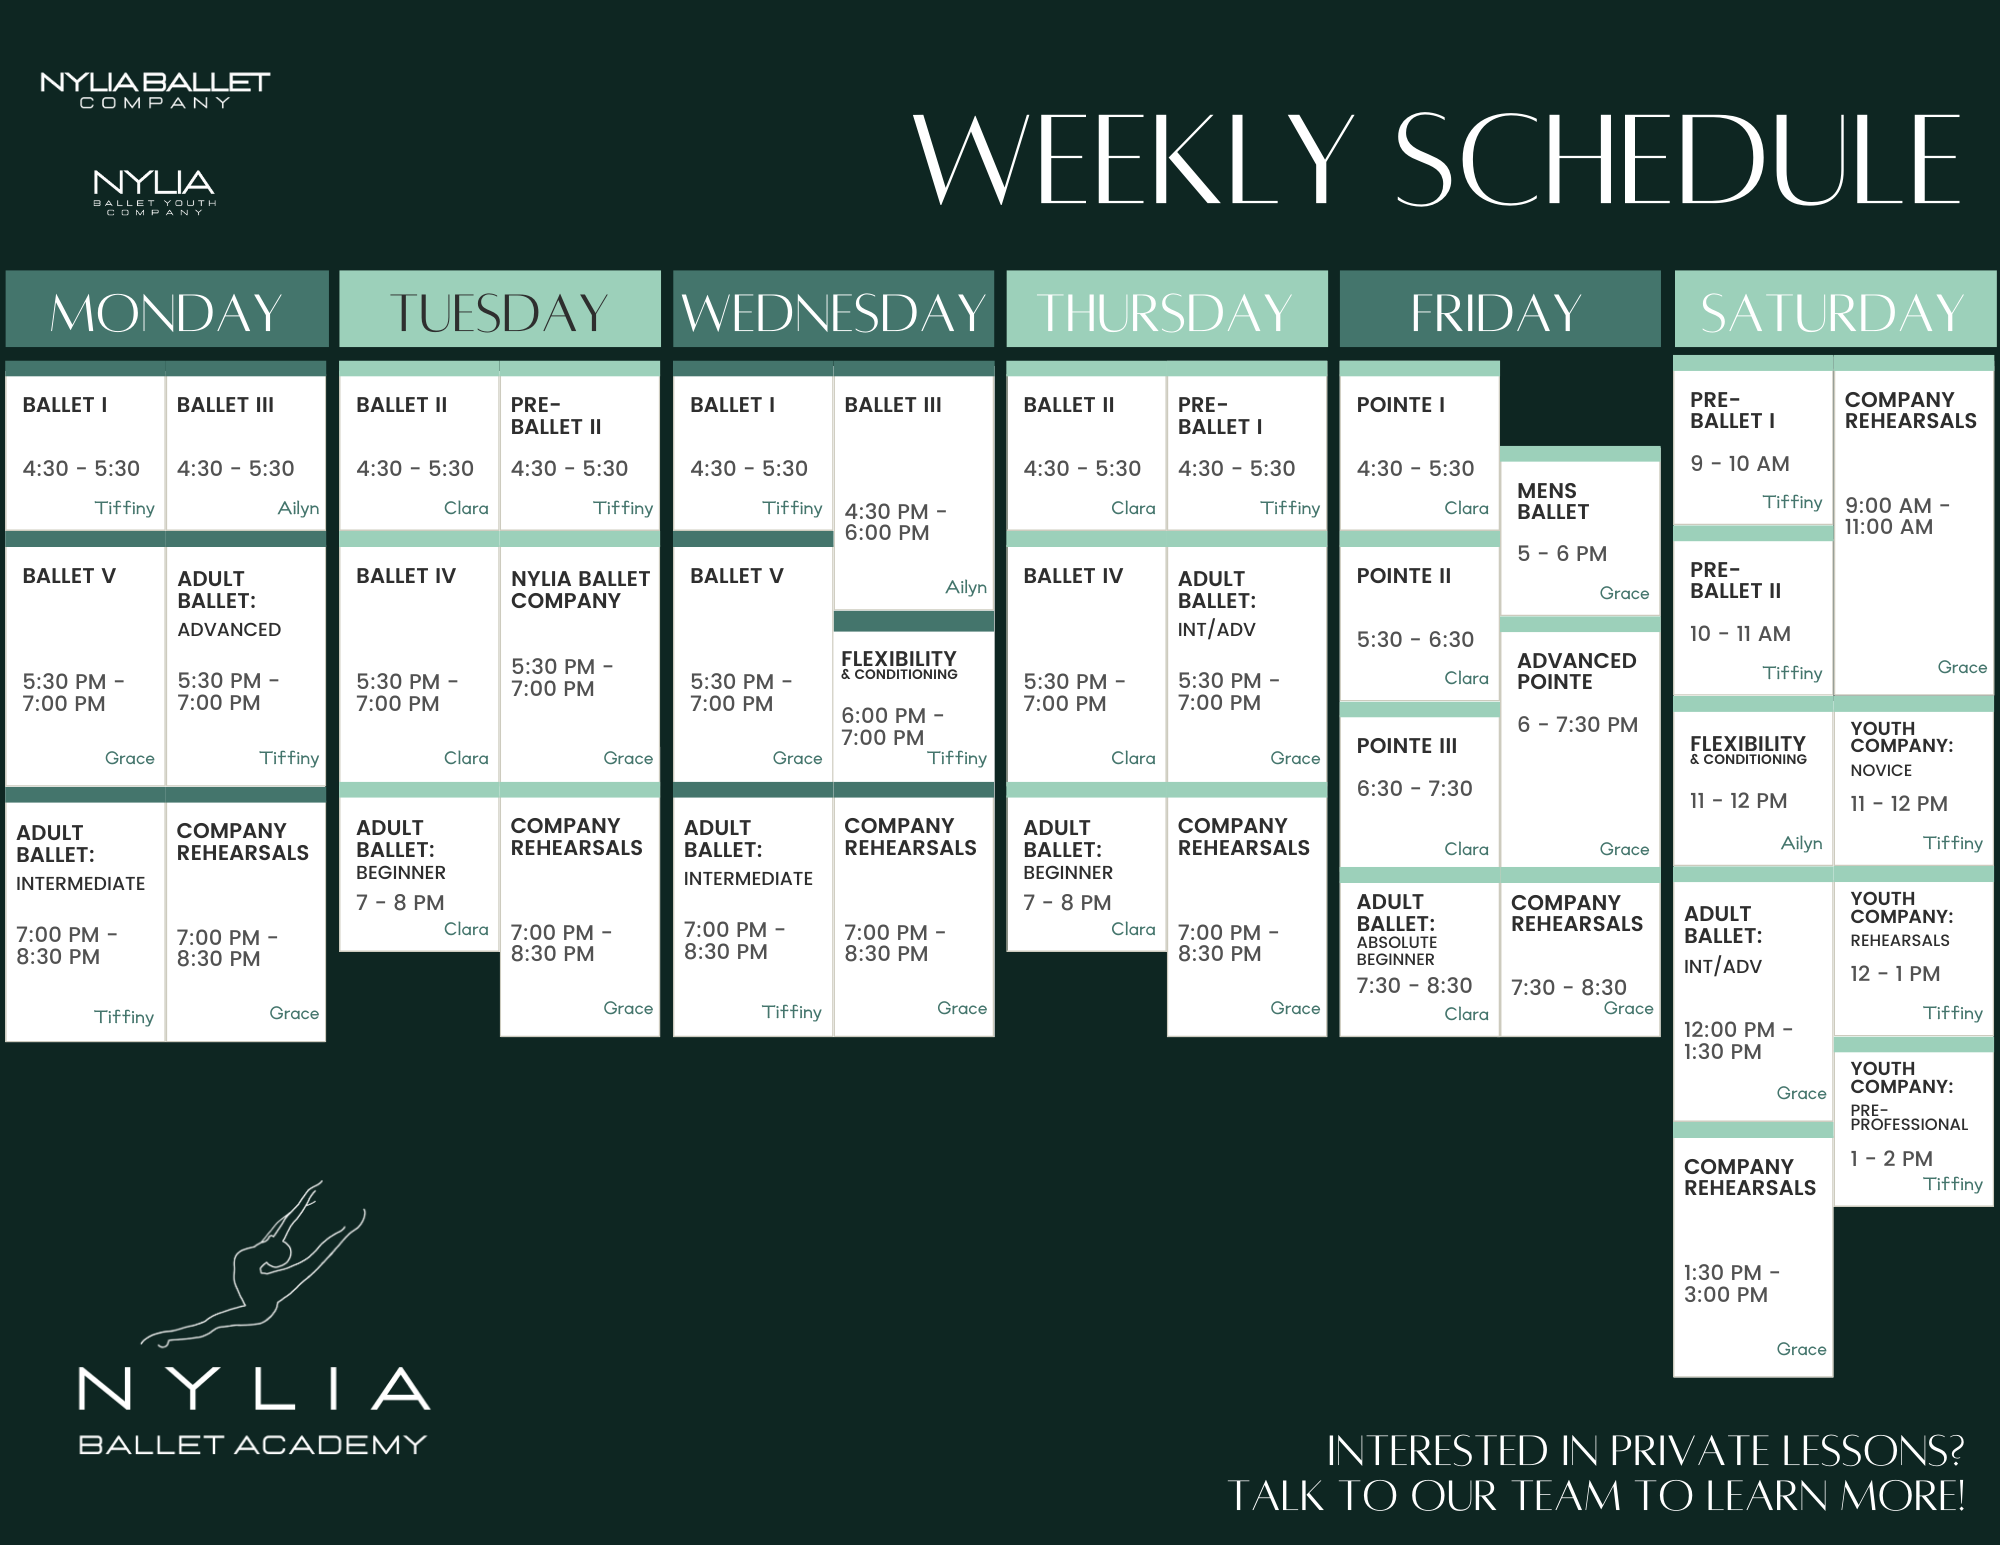
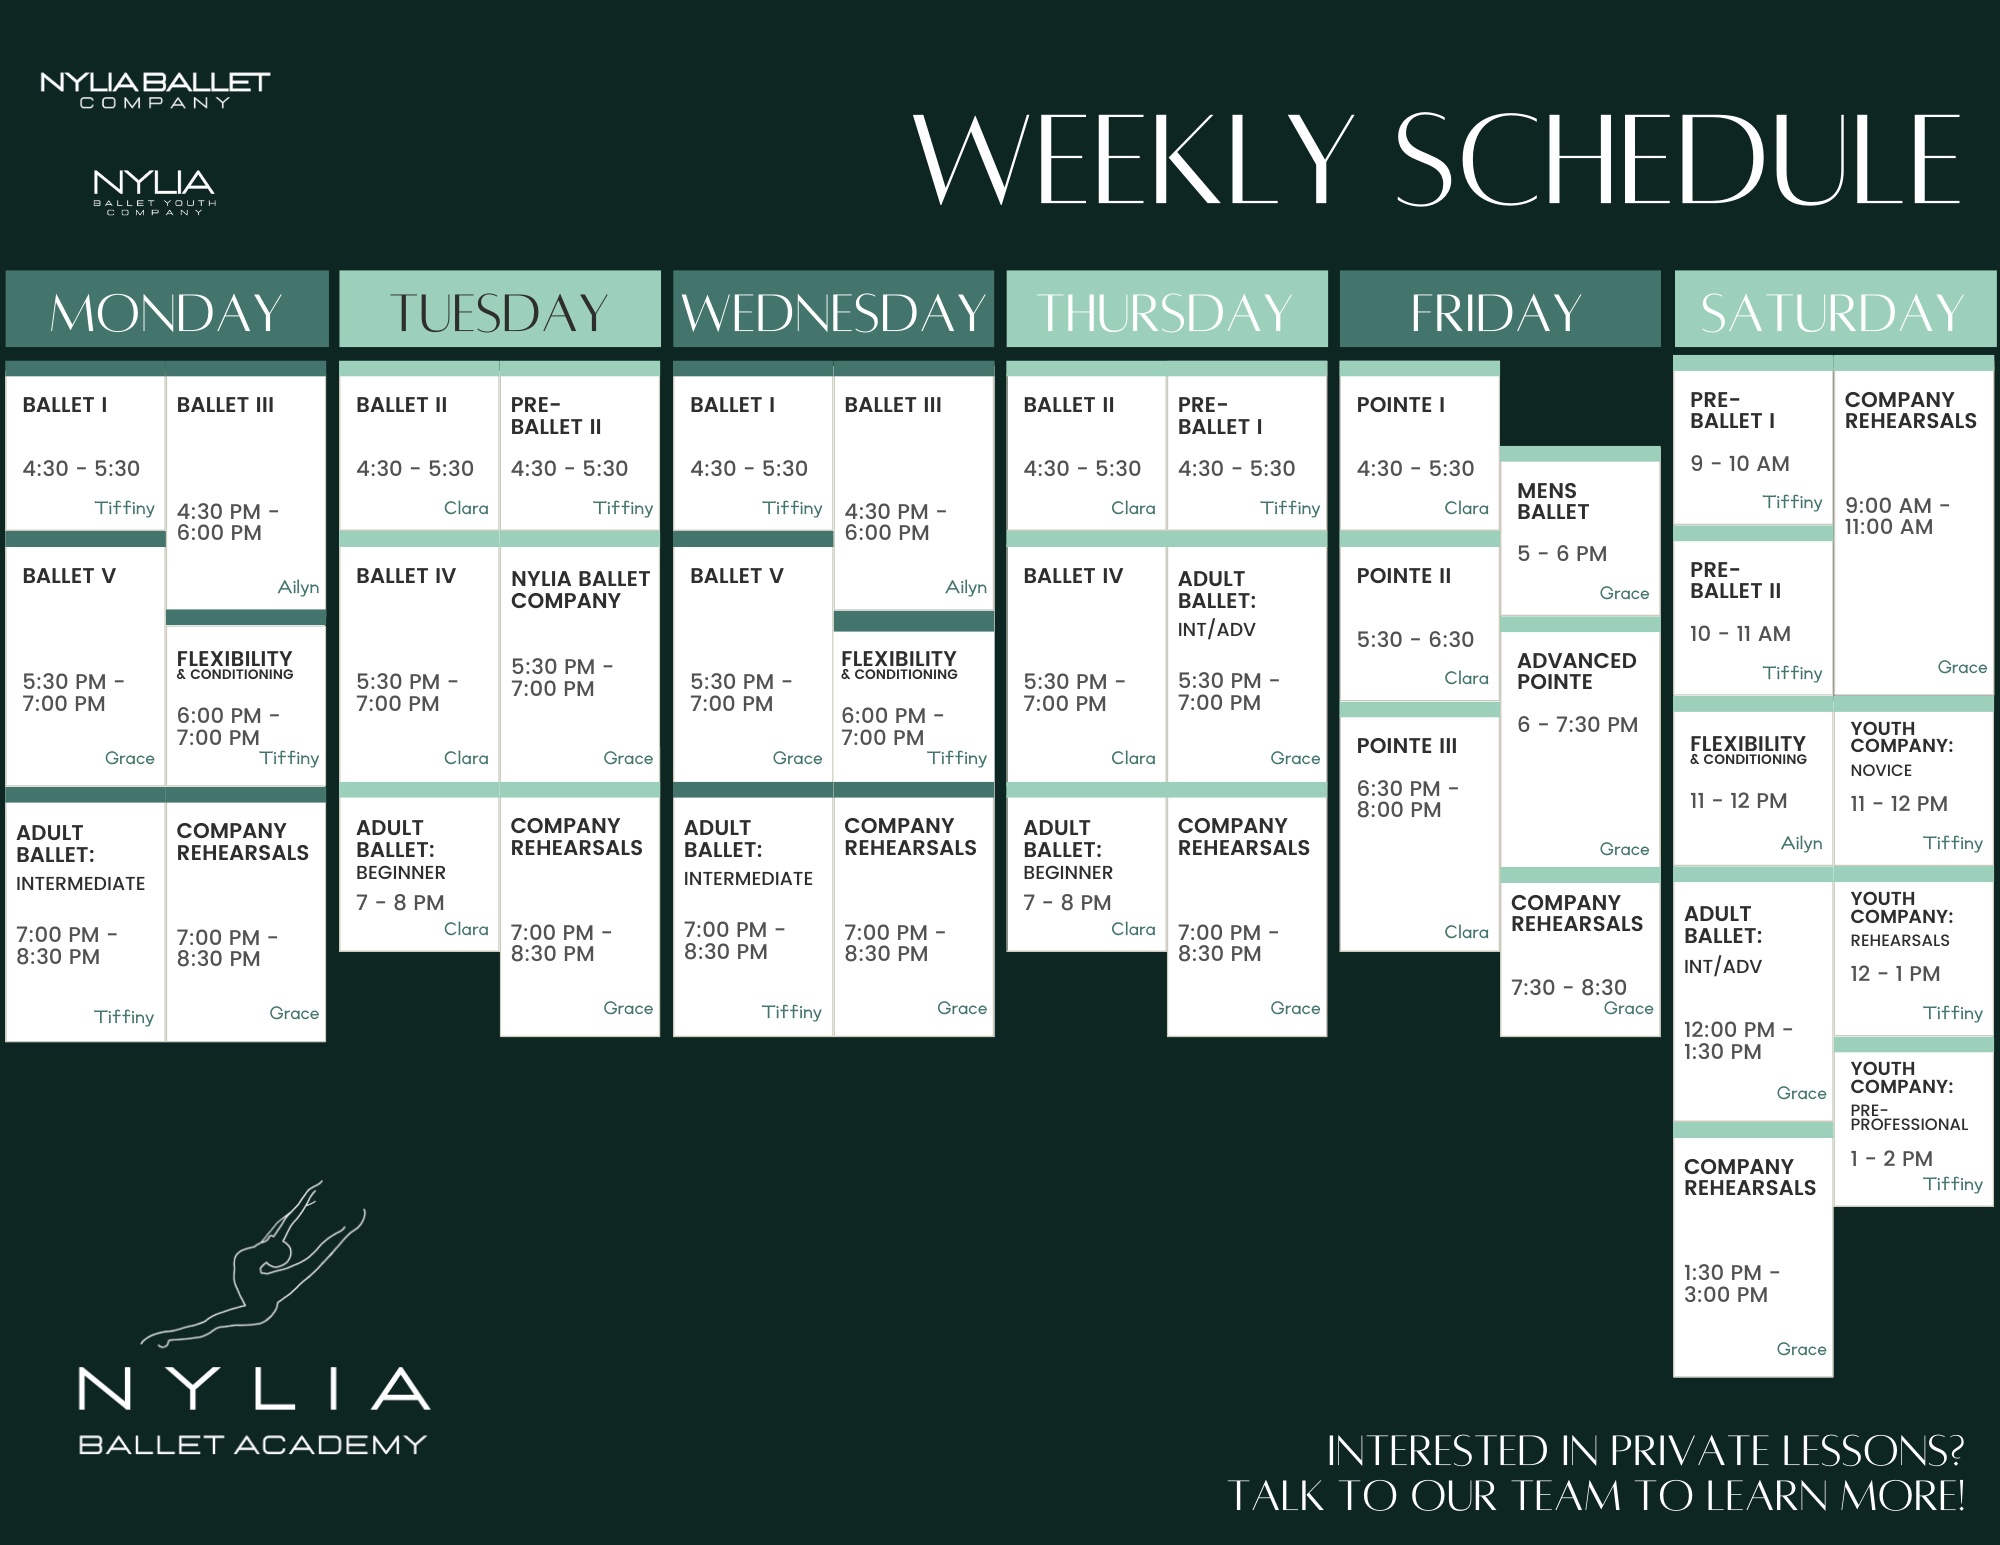
Update schedule

Changed region(s): [[0.651, 0.5592, 0.775, 0.6835], [0.062, 0.2796, 0.155, 0.4971], [0.682, 0.4971, 0.744, 0.5282]]

diff --git a/src/components/Classes.js b/src/components/Classes.js
@@ -108,15 +108,6 @@ import advAdultXLWebp from "../assets/classesPage/adultBallet-2000.webp";
 import allAdultSm from "../assets/classesPage/AllLevels-300.jpg";
 import allAdultMd from "../assets/classesPage/AllLevels-2000.jpg";
 
-import pilatesSm from "../assets/classesPage/pilates-300.png";
-import pilatesMd from "../assets/classesPage/pilates-768.png";
-import pilatesLg from "../assets/classesPage/pilates-1280.png";
-import pilatesXL from "../assets/classesPage/pilates-2000.png";
-import pilatesSmWebp from "../assets/classesPage/pilates-300.webp";
-import pilatesMdWebp from "../assets/classesPage/pilates-768.webp";
-import pilatesLgWebp from "../assets/classesPage/pilates-1280.webp";
-import pilatesXLWebp from "../assets/classesPage/pilates-2000.webp";
-
 import flexibilitySm from "../assets/classesPage/ailynKeinaFold300.JPG";
 import flexibilityMd from "../assets/classesPage/ailynKeinaFold768.JPG";
 import flexibilityLg from "../assets/classesPage/ailynKeinaFold1280.JPG";
@@ -371,7 +362,7 @@ function Classes() {
       classImg: flexibilitySm,
       imgSet: `${flexibilitySm} 300w, ${flexibilityMd} 768w, ${flexibilityLg} 1280w, ${flexibilityXL} 2000w`,
       webpSet: `${flexibilitySmWebp} 300w, ${flexibilityMdWebp} 768w, ${flexibilityLgWebp} 1280w, ${flexibilityXLWebp} 2000w`,
-      classSched1: "WEDNESDAY",
+      classSched1: "MONDAY & WEDNESDAY",
       classSched2: "6:00 PM - 7:00 PM",
       classSched3: "SATURDAY",
       classSched4: "11:00 AM - 12:00 PM",
@@ -513,12 +504,6 @@ function Classes() {
                 Adult Ballet - Adv
               </Dropdown.Item>
 
-              <Dropdown.Item
-                as="button"
-                onClick={() => setClassInfo("pilates")}
-              >
-                Pilates
-              </Dropdown.Item>
               <Dropdown.Item
                 as="button"
                 onClick={() => setClassInfo("flexibility")}
@@ -697,9 +682,7 @@ function Classes() {
                   Advanced
                 </Dropdown.Item>
               </DropdownButton>
-              <Button as="button" onClick={() => setClassInfo("pilates")}>
-                Pilates
-              </Button>
+
               <Button as="button" onClick={() => setClassInfo("flexibility")}>
                 Flexibility
               </Button>
@@ -709,21 +692,6 @@ function Classes() {
             <br></br>
             <b>Select a class to learn more</b>
           </p>
-          <div className="class-descriptions-button">
-            <a
-              href={ClassDescriptionBrochure}
-              without
-              rel="noopener noreferrer"
-              target="_blank"
-              aria-label="Download Nylia Ballet Academy Class Descriptions"
-            >
-              <NyliaButton
-                addtClassName="class-descriptions-button"
-                handleClick={() => setClassInfo("Download Class Descriptions")}
-                label={"Download Class Descriptions"}
-              ></NyliaButton>
-            </a>
-          </div>
         </div>
         <div className="full-schedule">
           <h1>WEEKLY SCHEDULE</h1>
